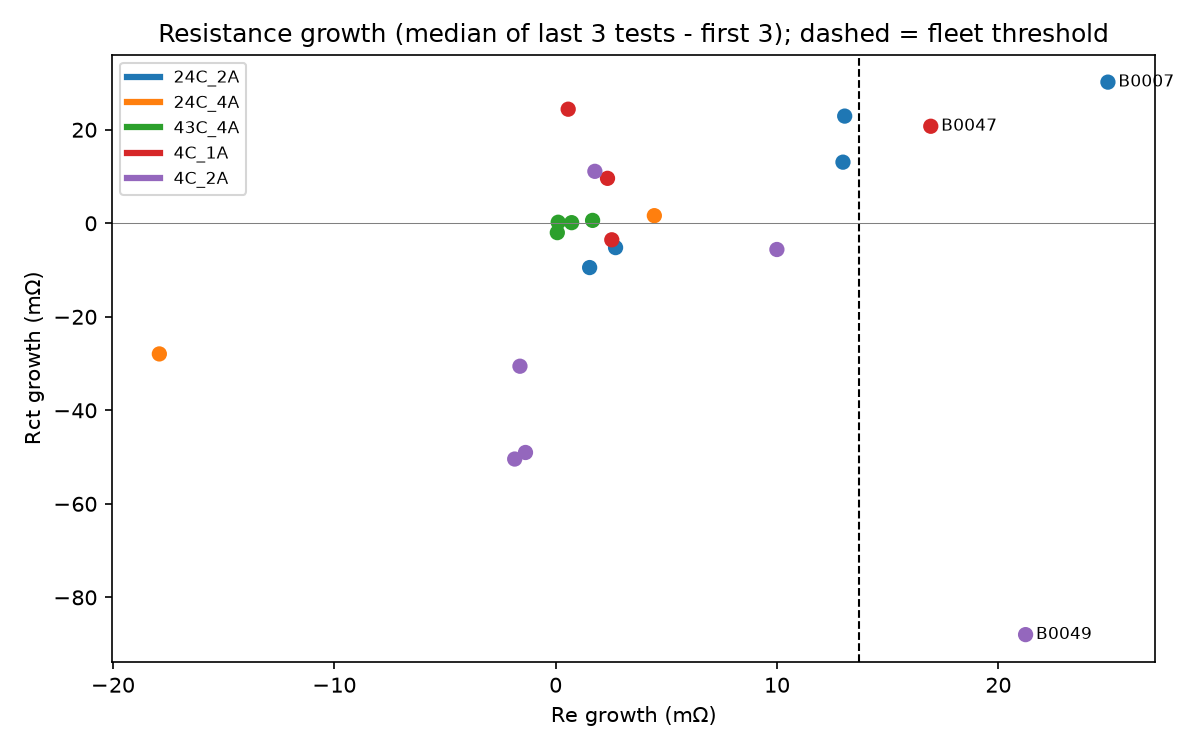
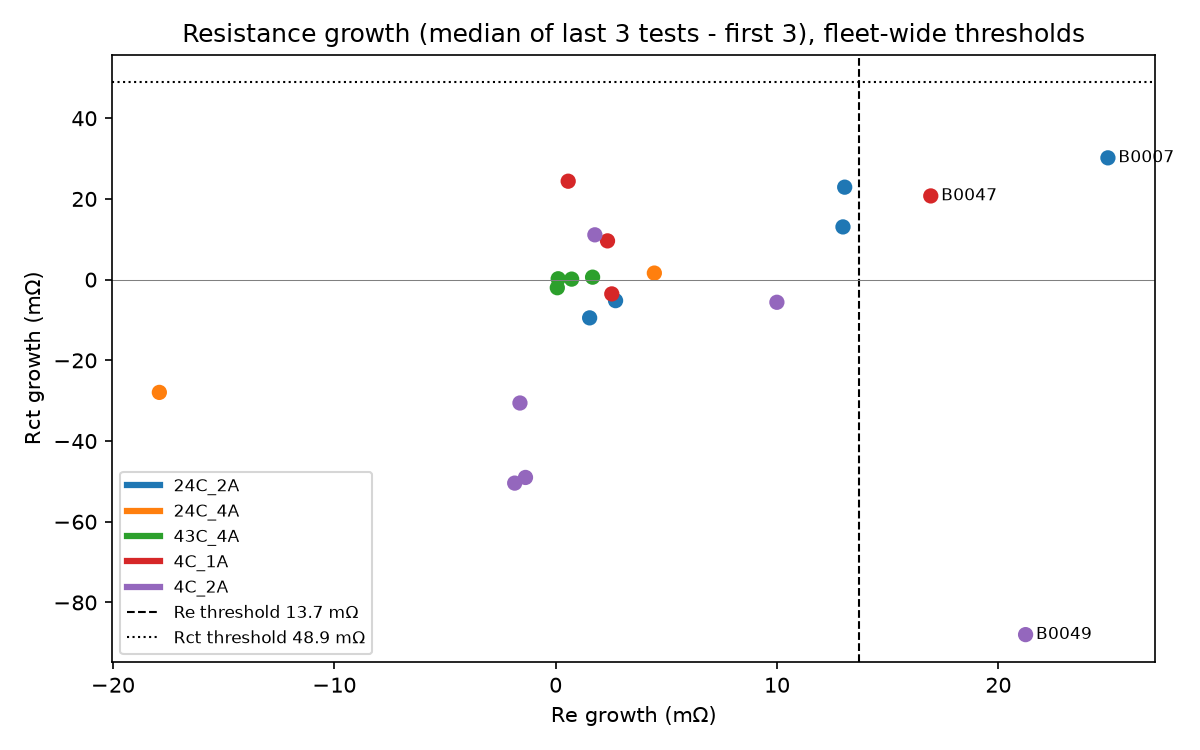
Label fleet-wide fade threshold and draw Rct threshold
- Fade plot: groups below MIN_GROUP_SIZE use the fleet-wide threshold;
  draw it dotted with its own legend entry
- Resistance plot: compute both thresholds with robust_threshold so the
  Rct line shows even when no cell crosses it

diff --git a/src/report.py b/src/report.py
@@ -11,7 +11,7 @@ import pandas as pd
 
 from src import config
 from src.analysis import cell_metrics, run_query
-from src.anomalies import fade_thresholds
+from src.anomalies import fade_thresholds, robust_threshold
 from src.build_db import connect
 
 DPI = 150
@@ -66,12 +66,17 @@ def plot_fade(metrics: pd.DataFrame, thresholds: dict) -> str:
     m = m.sort_values(["order", "fade_rate_ah_per_100"]).reset_index(drop=True)
     fig, ax = plt.subplots(figsize=(11, 5))
     ax.bar(m.index, m["fade_rate_ah_per_100"], color=m["grp"].map(GROUP_COLORS))
+    small = {grp for grp, g in m.groupby("grp") if len(g) < config.MIN_GROUP_SIZE}
     for grp, g in m.groupby("grp"):
-        ax.hlines(thresholds[grp][0], g.index.min() - 0.4, g.index.max() + 0.4, colors="k", ls="--")
+        ax.hlines(thresholds[grp][0], g.index.min() - 0.4, g.index.max() + 0.4, colors="k",
+                  ls=":" if grp in small else "--")
     ax.set_xticks(m.index, m["cell_id"], rotation=60, fontsize=8)
     ax.set(ylabel="Fade rate (Ah per 100 cycles)", title="Fade rate by cell and group")
-    line = plt.Line2D([], [], color="k", ls="--", label="group threshold")
-    group_legend(ax, GROUP_ORDER, [line])
+    lines = [plt.Line2D([], [], color="k", ls="--", label="group threshold")]
+    if small:
+        lines.append(plt.Line2D([], [], color="k", ls=":",
+                                label=f"fleet-wide threshold (group < {config.MIN_GROUP_SIZE} cells)"))
+    group_legend(ax, GROUP_ORDER, lines)
     return save(fig, "fade_rate_by_cell.png")
 
 
@@ -94,10 +99,16 @@ def plot_resistance(metrics: pd.DataFrame, flags: pd.DataFrame) -> str:
     fig, ax = plt.subplots(figsize=(8, 5))
     ax.scatter(metrics["delta_re"] * 1000, metrics["delta_rct"] * 1000,
                c=metrics["grp"].map(GROUP_COLORS), s=40)
-    for rule, draw in [("resistance_growth_re", ax.axvline), ("resistance_growth_rct", ax.axhline)]:
-        thr = flags.loc[flags["rule"] == rule, "threshold"]
-        if len(thr):
-            draw(thr.iloc[0] * 1000, color="k", ls="--", lw=1)
+    # Same thresholds as the rule, drawn even when no cell crosses them.
+    re_thr = robust_threshold(metrics["delta_re"], config.RES_MAD_K)
+    rct_thr = robust_threshold(metrics["delta_rct"], config.RES_MAD_K)
+    lines = []
+    if not np.isnan(re_thr):
+        ax.axvline(re_thr * 1000, color="k", ls="--", lw=1)
+        lines.append(plt.Line2D([], [], color="k", ls="--", lw=1, label=f"Re threshold {re_thr * 1000:.1f} mΩ"))
+    if not np.isnan(rct_thr):
+        ax.axhline(rct_thr * 1000, color="k", ls=":", lw=1)
+        lines.append(plt.Line2D([], [], color="k", ls=":", lw=1, label=f"Rct threshold {rct_thr * 1000:.1f} mΩ"))
     flagged = flags.loc[flags["rule"].str.startswith("resistance"), "cell_id"].unique()
     for r in metrics[metrics["cell_id"].isin(flagged)].itertuples():
         ax.annotate(r.cell_id, (r.delta_re * 1000, r.delta_rct * 1000),
@@ -105,8 +116,8 @@ def plot_resistance(metrics: pd.DataFrame, flags: pd.DataFrame) -> str:
     ax.axhline(0, color="grey", lw=0.5)
     ax.set(xlabel="Re growth (mΩ)", ylabel="Rct growth (mΩ)",
            title=f"Resistance growth (median of last {config.IMP_EDGE_TESTS} tests - first "
-                 f"{config.IMP_EDGE_TESTS}); dashed = fleet threshold")
-    group_legend(ax, GROUP_ORDER)
+                 f"{config.IMP_EDGE_TESTS}), fleet-wide thresholds")
+    group_legend(ax, GROUP_ORDER, lines)
     return save(fig, "resistance_growth.png")
 
 
